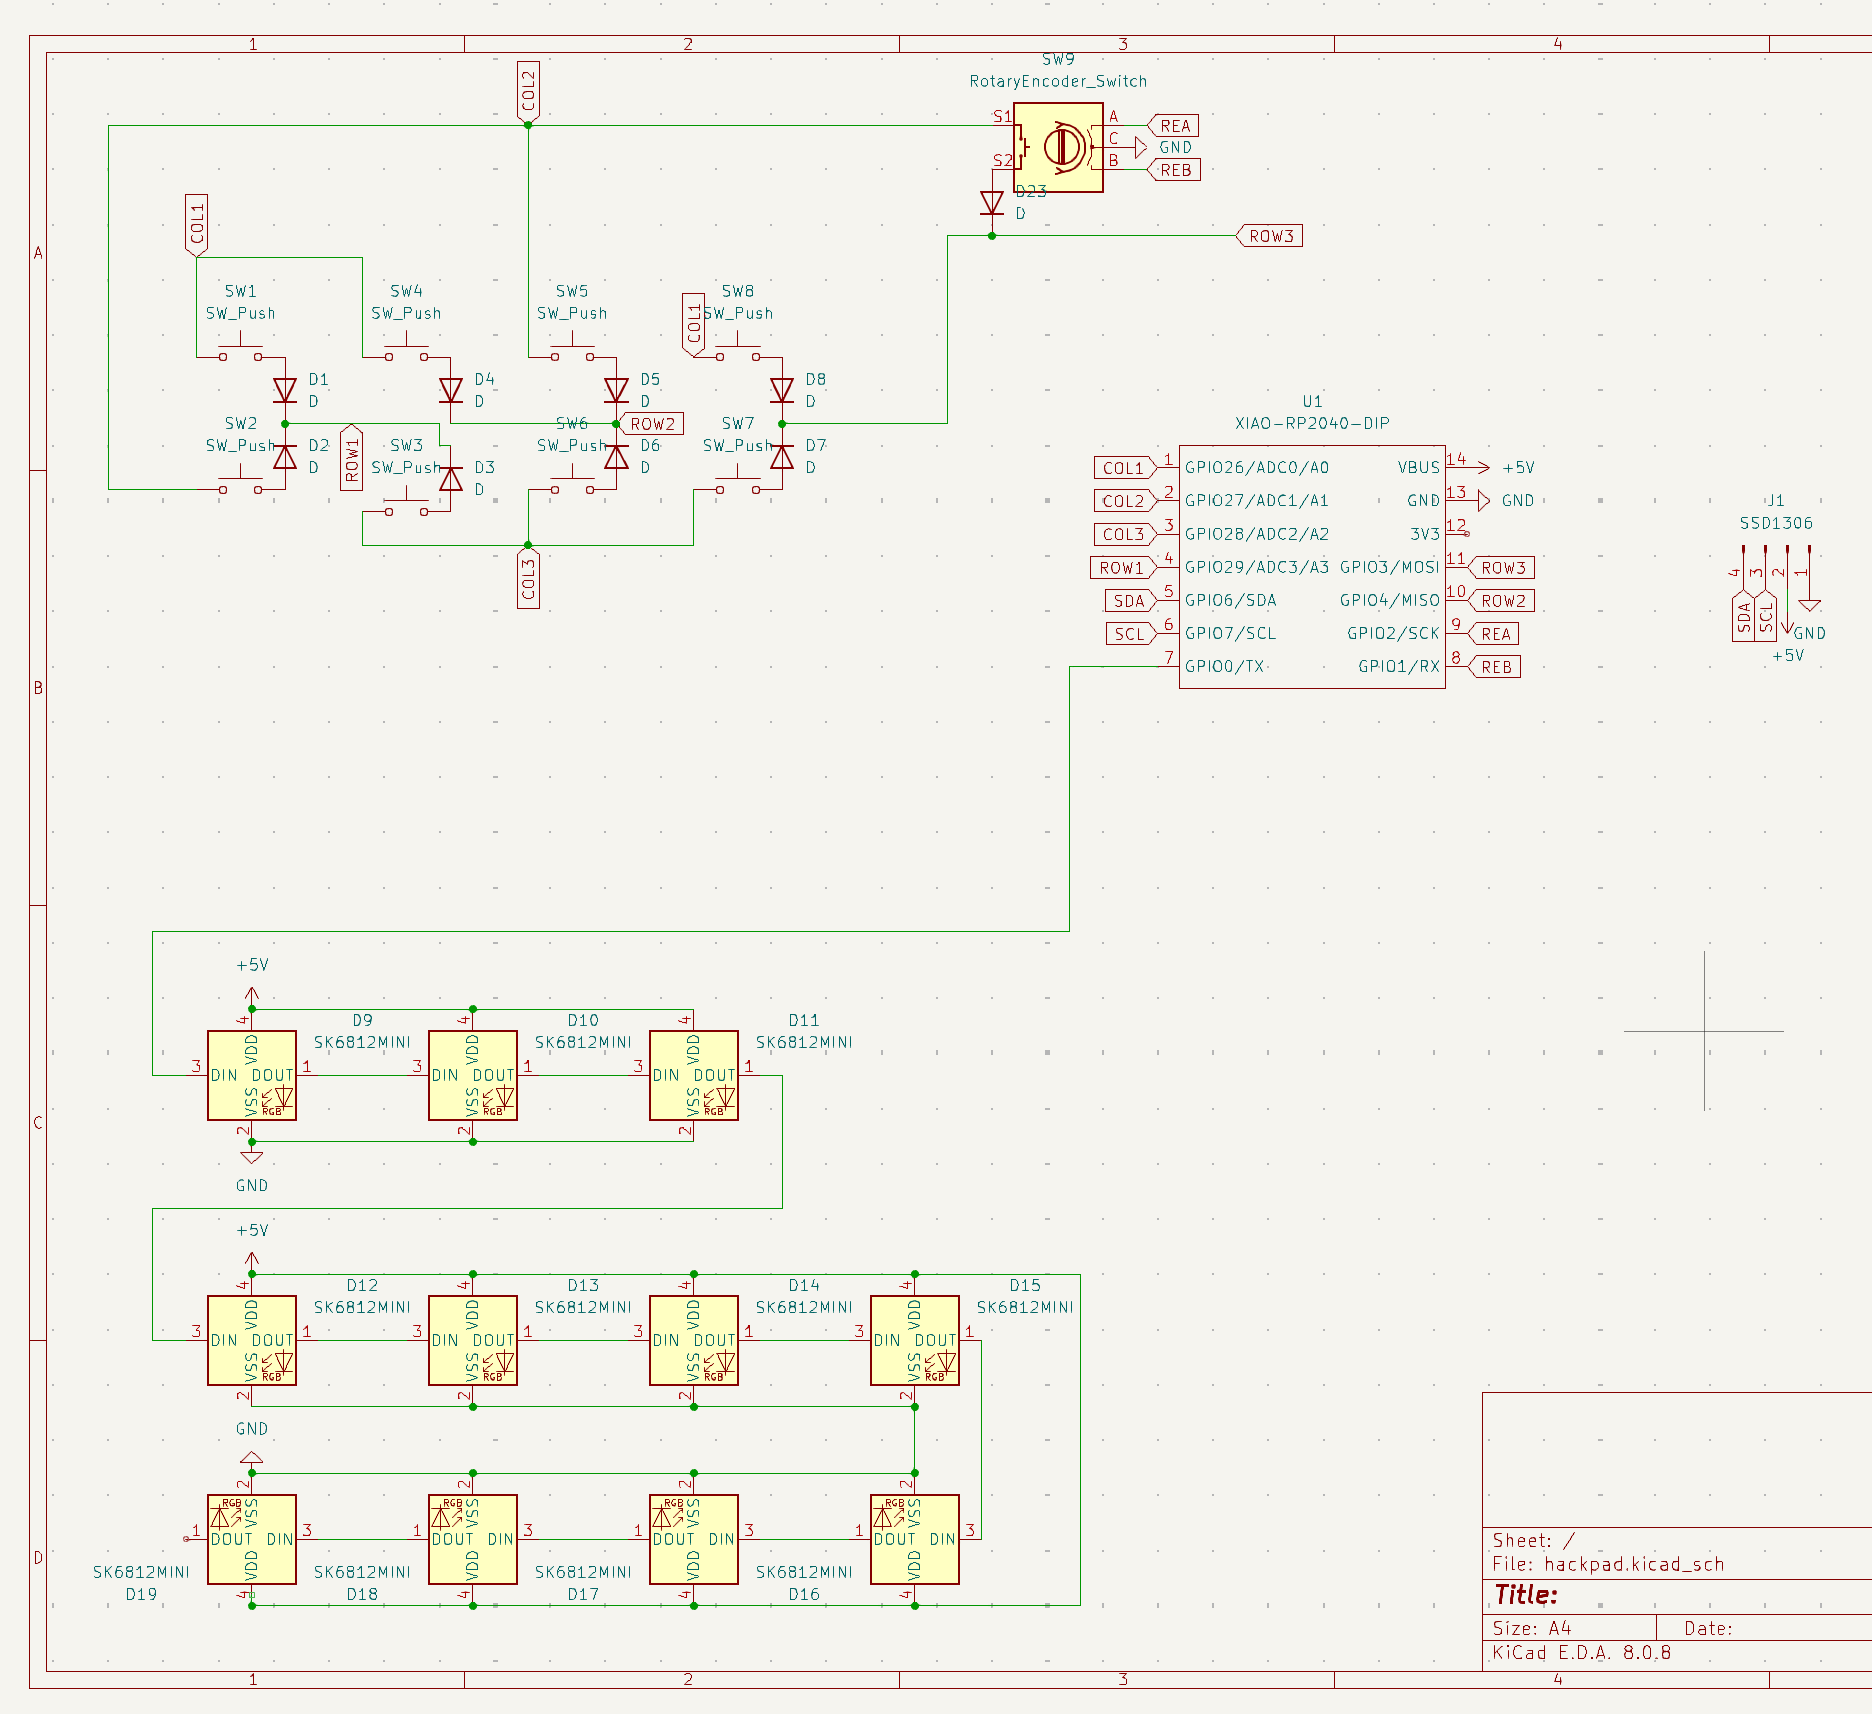
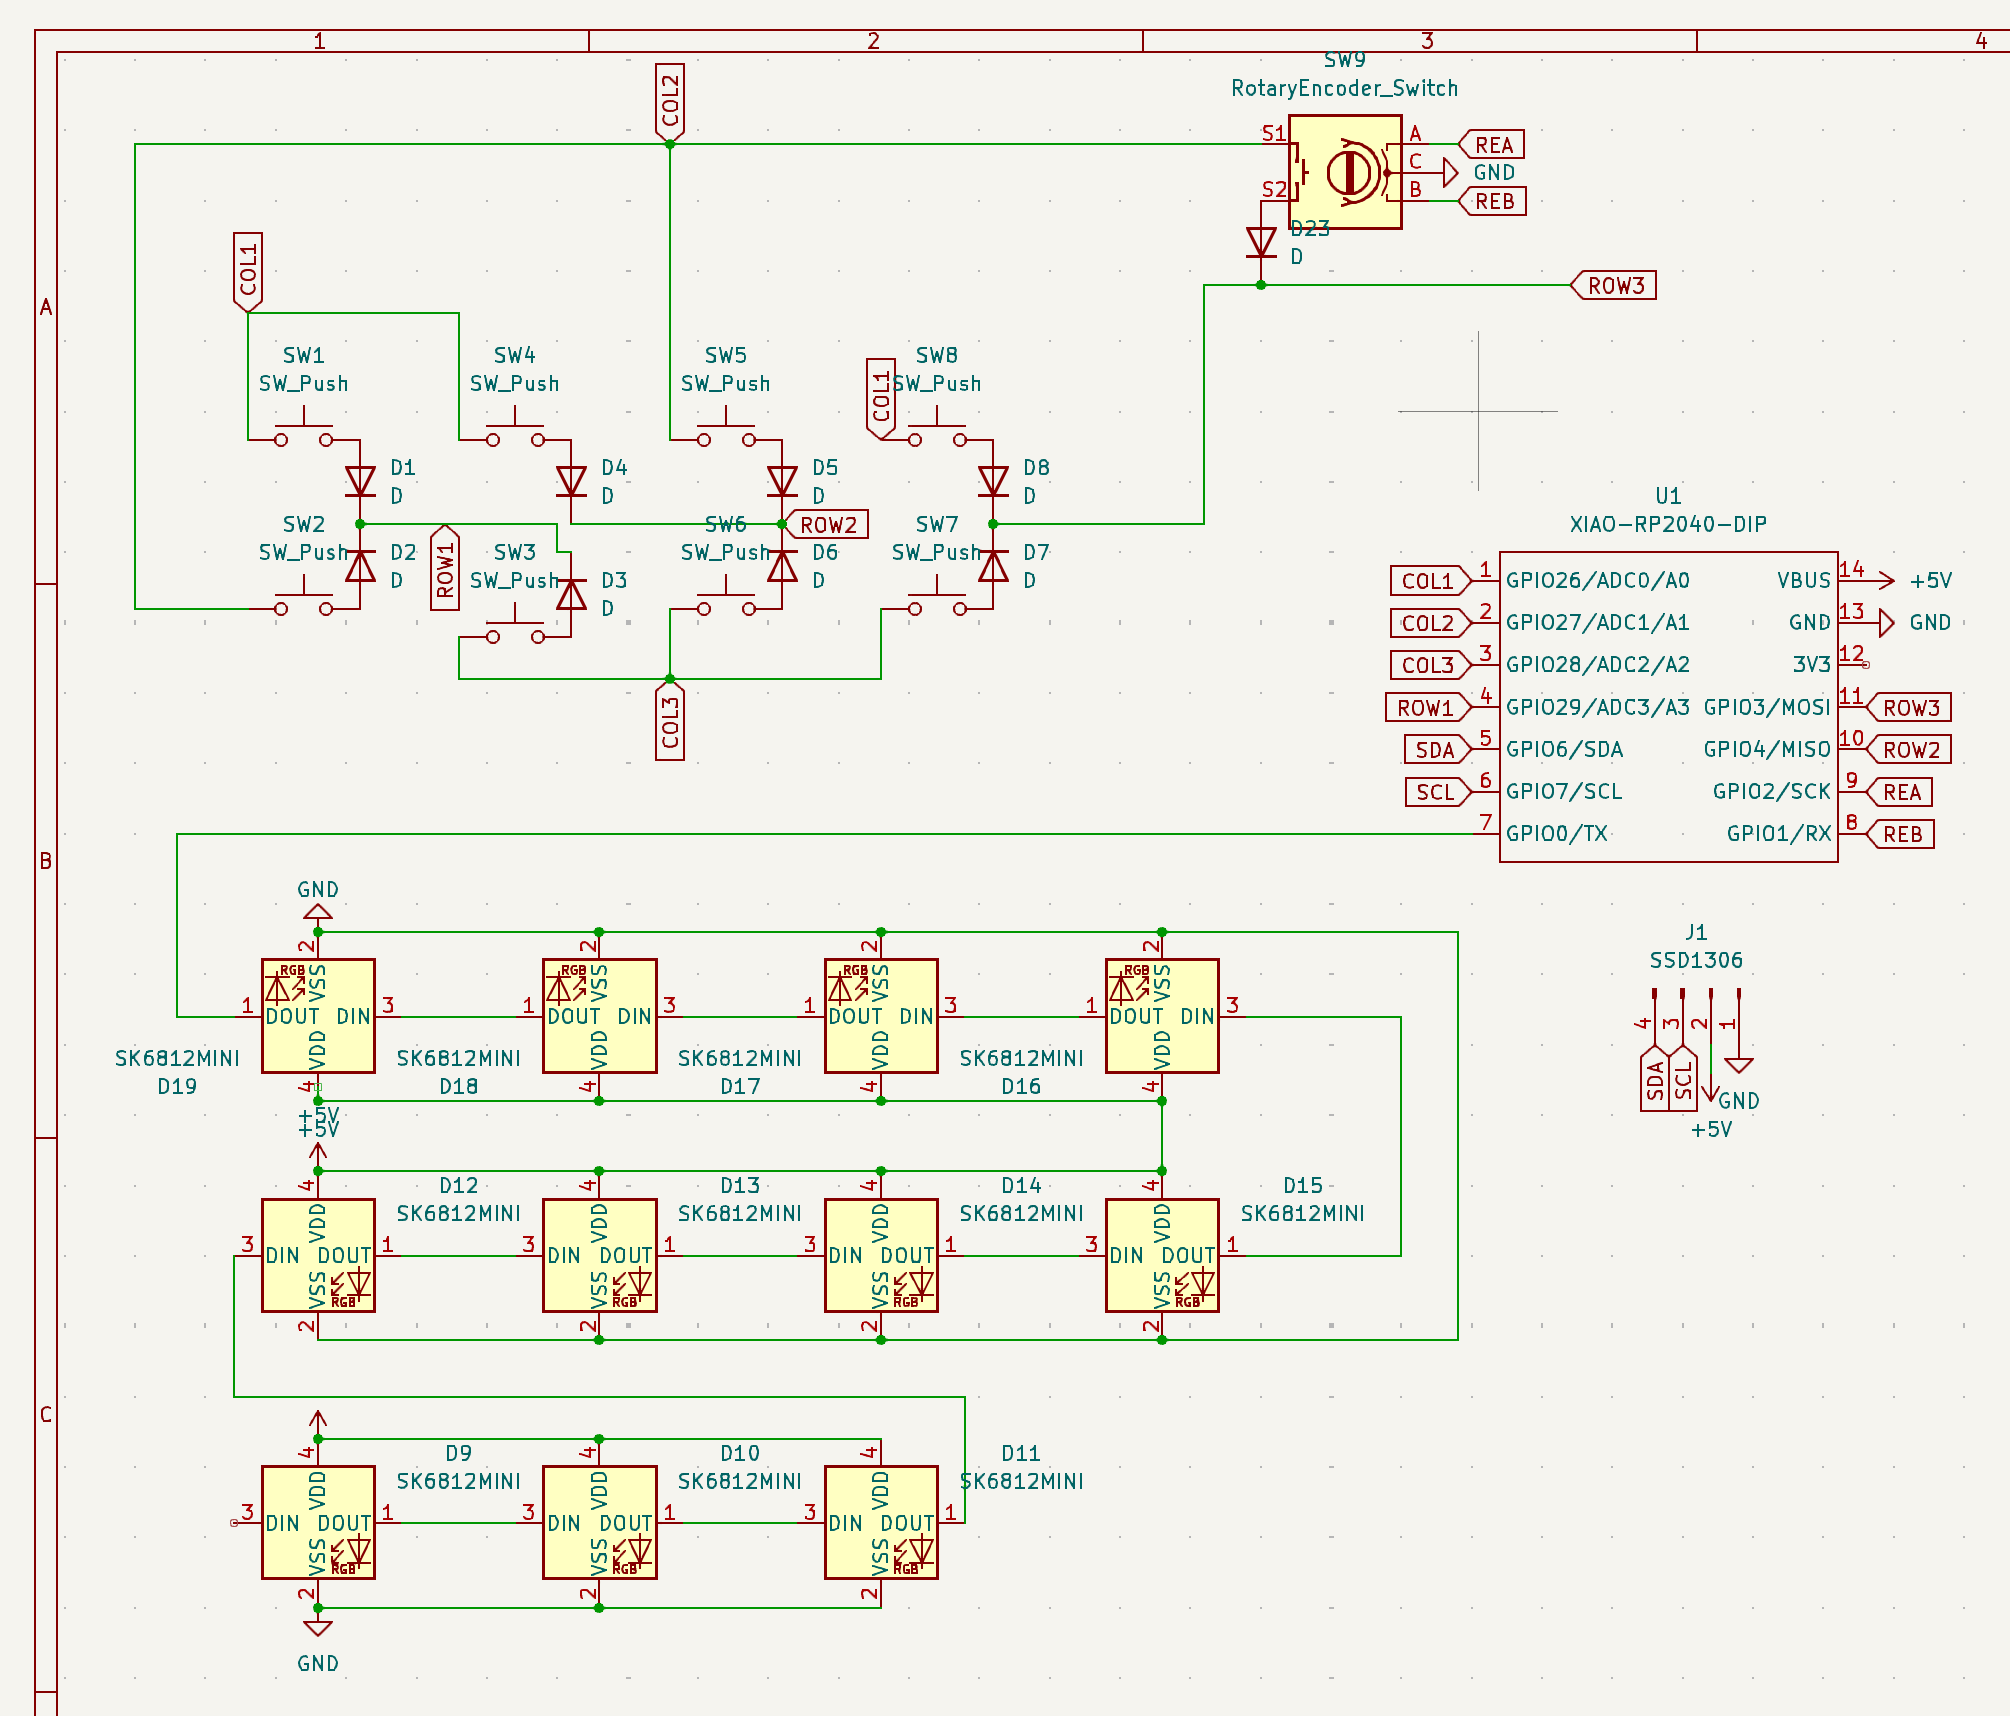
update assets & readme

diff --git a/hackpads/bfpad/README.md b/hackpads/bfpad/README.md
@@ -12,7 +12,7 @@ i want to leave the PCB exposed, so i made a stand that can be attached to the P
 
 the 8 keys (and secret 9th rotary encoder key) are addressed via a 3x3 key matrix, using only 6 pins of the RP2040.
 ![schematic](assets/schematic.png)
-this pcb was incredibly annoying to route. it looks very ugly. hopefully my hackboard will look a little more attractive
+this pcb was incredibly annoying to route the first time around. i rerouted it after reading some pcb tips and it turned out... better. i think.
 ![pcb](assets/pcb.png)
 
 ## BOM
